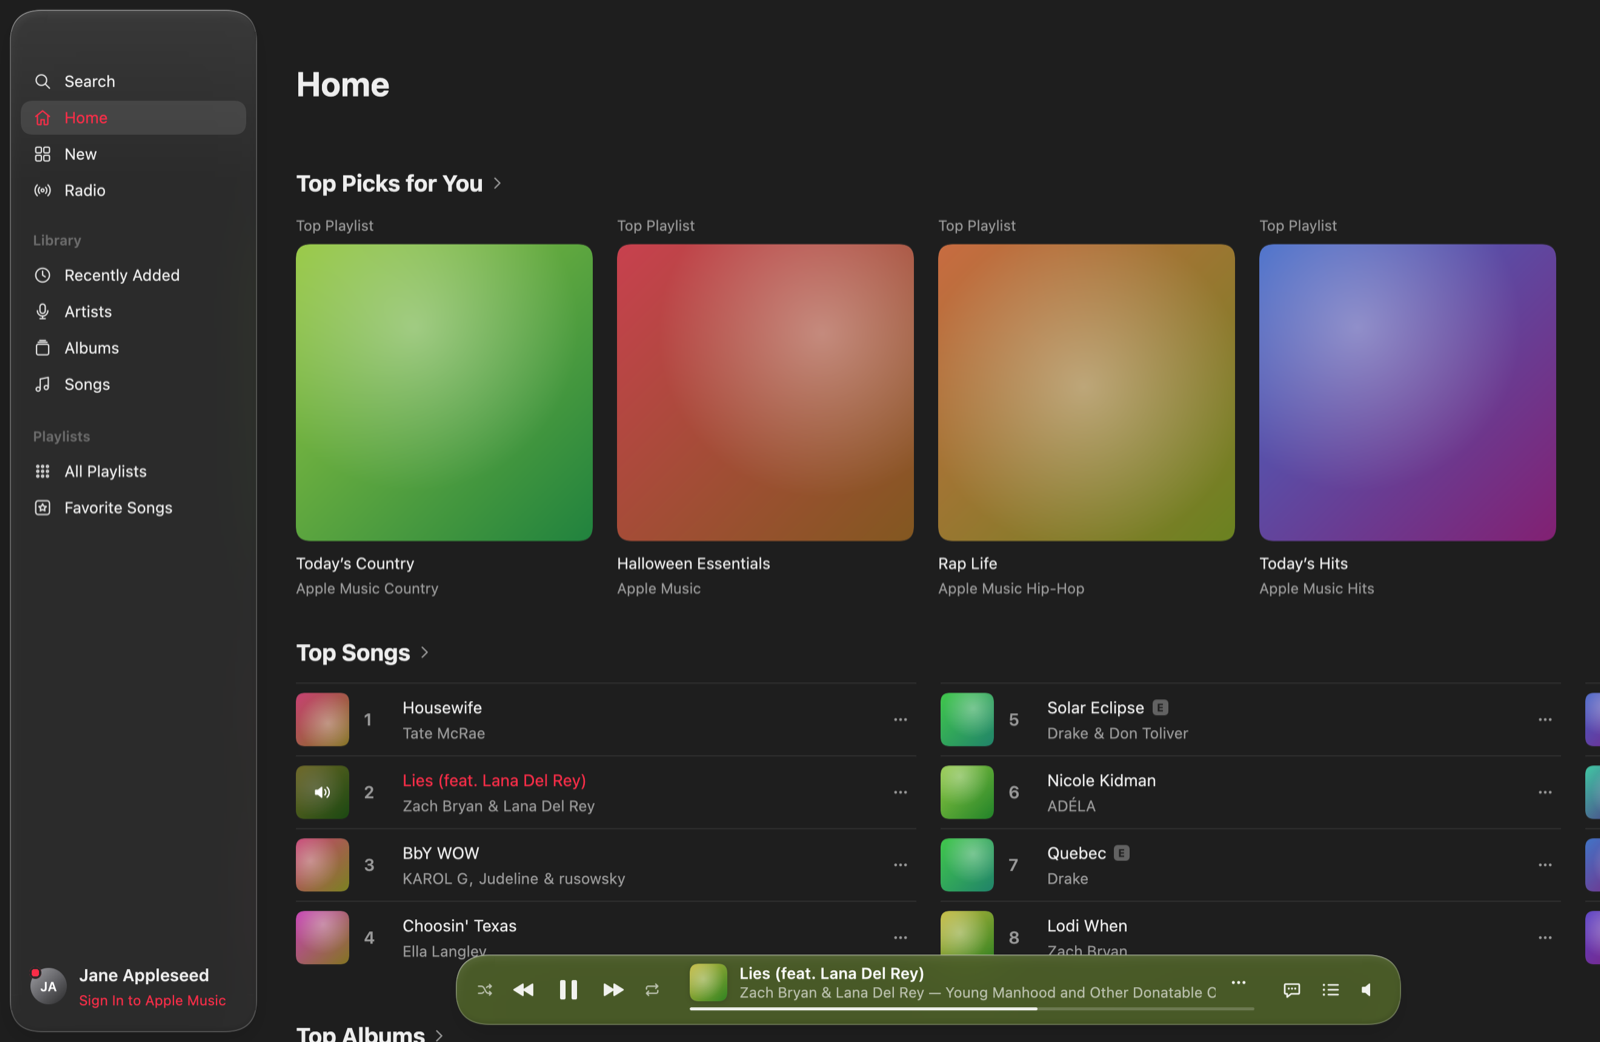
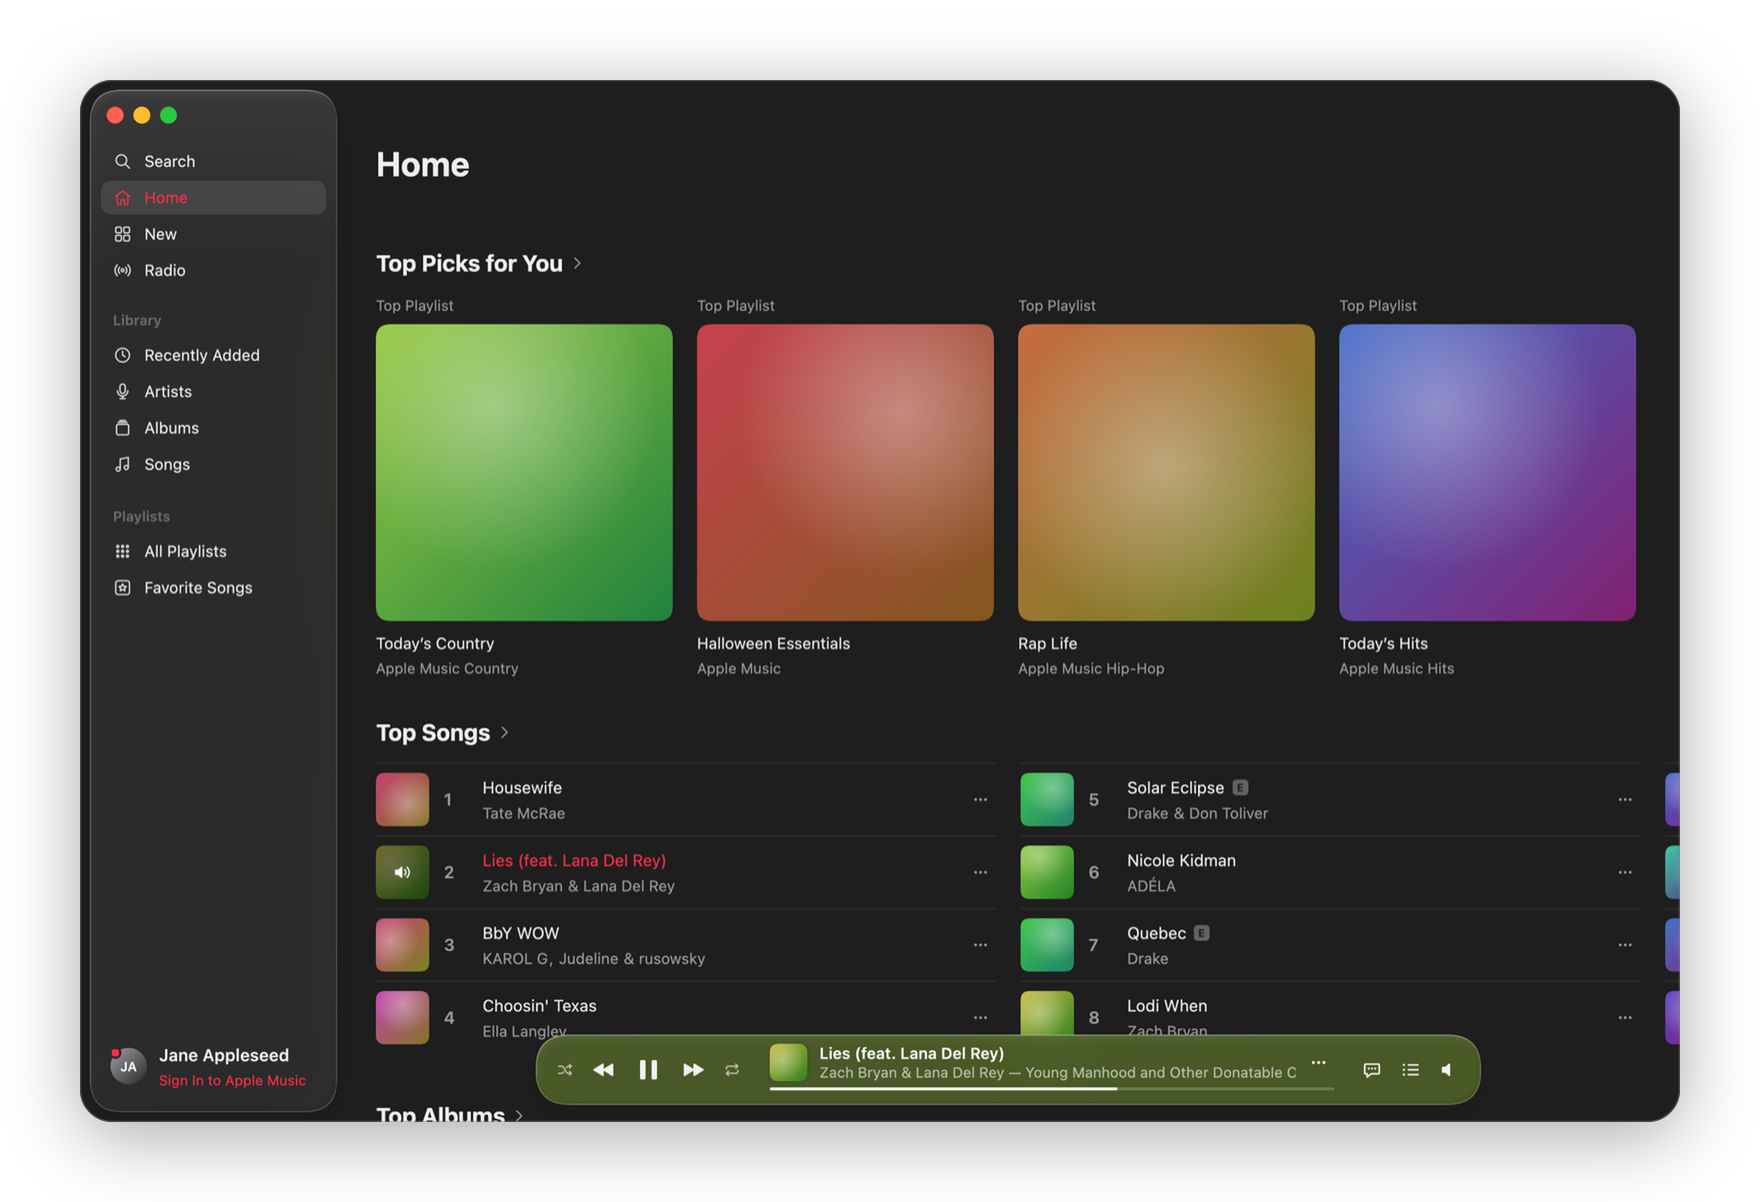
Frame the README's screenshots as Mac windows
Each screenshot now has the window's rounded corners, a hairline edge, its window
buttons and a soft shadow, on a transparent background that suits GitHub's light
and dark themes. The gallery is captioned pairs rather than a bordered table.
scripts/frame_screenshot.py does the framing, so new screenshots match.

diff --git a/scripts/frame_screenshot.py b/scripts/frame_screenshot.py
@@ -1,0 +1,94 @@
+#!/usr/bin/env python3
+"""Frames a tour snapshot as a Mac window for the README: rounded corners, a hairline edge,
+the window buttons, and a soft shadow, on a transparent background that suits GitHub's
+light and dark themes alike. Needs Pillow.
+
+  scripts/frame_screenshot.py docs/screenshots/home.png
+  scripts/frame_screenshot.py --points 300 --lights 10,10 docs/screenshots/mini-player.png
+
+Tour snapshots are rendered offscreen, so they have no window buttons or corners of their
+own; `--lights` is where the window puts its buttons, in points (TitlebarOptions'
+traffic_light_position), and `--points` is the window's width in points.
+"""
+
+import argparse
+
+from PIL import Image, ImageDraw, ImageFilter
+
+SUPERSAMPLE = 4
+# Tahoe's window corner radius, and its window buttons' size and spacing, in points.
+CORNER = 26
+BUTTON = 14
+BUTTON_STEP = 22
+BUTTONS = [((255, 95, 87), (224, 68, 62)), ((254, 188, 46), (222, 161, 35)), ((40, 200, 64), (29, 173, 43))]
+
+
+def rounded_mask(size, radius):
+    w, h = size
+    big = Image.new("L", (w * SUPERSAMPLE, h * SUPERSAMPLE), 0)
+    ImageDraw.Draw(big).rounded_rectangle(
+        (0, 0, w * SUPERSAMPLE - 1, h * SUPERSAMPLE - 1), radius * SUPERSAMPLE, fill=255
+    )
+    return big.resize(size, Image.LANCZOS)
+
+
+def frame(path, points, lights):
+    shot = Image.open(path).convert("RGBA")
+    w, h = shot.size
+    scale = w / points
+    radius = round(CORNER * scale)
+
+    if lights:
+        big = shot.resize((w * SUPERSAMPLE, h * SUPERSAMPLE), Image.LANCZOS)
+        draw = ImageDraw.Draw(big)
+        s = scale * SUPERSAMPLE
+        for i, (fill, edge) in enumerate(BUTTONS):
+            cx = (lights[0] + BUTTON / 2 + i * BUTTON_STEP) * s
+            cy = (lights[1] + BUTTON / 2) * s
+            r = BUTTON / 2 * s
+            draw.ellipse((cx - r, cy - r, cx + r, cy + r), fill=edge)
+            inset = 0.5 * s
+            draw.ellipse((cx - r + inset, cy - r + inset, cx + r - inset, cy + r - inset), fill=fill)
+        shot = big.resize((w, h), Image.LANCZOS)
+
+    mask = rounded_mask((w, h), radius)
+    window = Image.new("RGBA", (w, h), (0, 0, 0, 0))
+    window.paste(shot, (0, 0), mask)
+
+    # A hairline just inside the edge, which reads on light and dark pages.
+    edge = Image.new("RGBA", (w * SUPERSAMPLE, h * SUPERSAMPLE), (0, 0, 0, 0))
+    ImageDraw.Draw(edge).rounded_rectangle(
+        (0, 0, w * SUPERSAMPLE - 1, h * SUPERSAMPLE - 1),
+        radius * SUPERSAMPLE,
+        outline=(128, 128, 128, 110),
+        width=max(1, round(scale * SUPERSAMPLE)),
+    )
+    window = Image.alpha_composite(window, edge.resize((w, h), Image.LANCZOS))
+
+    pad = round(w * 0.05)
+    blur = round(w * 0.022)
+    drop = round(w * 0.009)
+    canvas = Image.new("RGBA", (w + pad * 2, h + pad * 2), (0, 0, 0, 0))
+    shadow_alpha = Image.new("L", canvas.size, 0)
+    shadow_alpha.paste(mask.point(lambda a: a * 0.34), (pad, pad + drop))
+    shadow = Image.new("RGBA", canvas.size, (0, 0, 0, 255))
+    shadow.putalpha(shadow_alpha.filter(ImageFilter.GaussianBlur(blur)))
+    canvas = Image.alpha_composite(canvas, shadow)
+    canvas.alpha_composite(window, (pad, pad))
+    canvas.save(path, optimize=True)
+
+
+def main():
+    parser = argparse.ArgumentParser(description=__doc__, formatter_class=argparse.RawDescriptionHelpFormatter)
+    parser.add_argument("paths", nargs="+")
+    parser.add_argument("--points", type=float, default=1320, help="window width in points (default 1320)")
+    parser.add_argument("--lights", default="22,22", help="window buttons' position in points, or 'none'")
+    args = parser.parse_args()
+    lights = None if args.lights == "none" else tuple(float(v) for v in args.lights.split(","))
+    for path in args.paths:
+        frame(path, args.points, lights)
+        print(f"framed {path}")
+
+
+if __name__ == "__main__":
+    main()

diff --git a/README.md b/README.md
@@ -8,11 +8,13 @@
 
 Styled after the macOS Tahoe Music app, with iOS-style detail pages and full-length playback for subscribers.
 
-[Features](#features) · [Benchmarks](#benchmarks) · [Getting started](#getting-started) · [Apple Music setup](docs/musickit.md) · [Architecture](docs/architecture.md) · [Contributing](CONTRIBUTING.md)
+[Features](#features) · [Screenshots](#screenshots) · [Benchmarks](#benchmarks) · [Getting started](#getting-started) · [Apple Music setup](docs/musickit.md) · [Architecture](docs/architecture.md) · [Contributing](CONTRIBUTING.md)
 
 </div>
 
-![Now Playing with synced lyrics](docs/screenshots/now-playing.png)
+<p align="center">
+  <img src="docs/screenshots/now-playing.png" alt="Now Playing with synced lyrics">
+</p>
 
 ## Features
 
@@ -27,26 +29,32 @@ Styled after the macOS Tahoe Music app, with iOS-style detail pages and full-len
 
 [All features →](docs/features.md)
 
-<table>
-  <tr>
-    <td width="50%"><img src="docs/screenshots/home.png" alt="Home, with the floating player bar"></td>
-    <td width="50%"><img src="docs/screenshots/new.png" alt="New, with the week's albums and songs"></td>
-  </tr>
-  <tr>
-    <td><img src="docs/screenshots/album.png" alt="Album page tinted from its artwork"></td>
-    <td><img src="docs/screenshots/quick-search.png" alt="Quick search"></td>
-  </tr>
-  <tr>
-    <td><img src="docs/screenshots/welcome.png" alt="Welcome screen on a new install"></td>
-    <td><img src="docs/screenshots/setup.png" alt="Connecting a MusicKit key"></td>
-  </tr>
-</table>
+## Screenshots
 
 <p align="center">
-  <img src="docs/screenshots/mini-player.png" width="300" alt="Mini Player with its controls showing">
+  <img src="docs/screenshots/home.png" width="48%" alt="Home, with the floating player bar">
+  <img src="docs/screenshots/new.png" width="48%" alt="New, with the week's albums and songs">
 </p>
+<p align="center"><sub><b>Home</b> with the floating player bar &nbsp;·&nbsp; <b>New</b> this week</sub></p>
 
-The screenshots use stand-in gradients in place of album artwork (`ENCORE_TOUR_PLACEHOLDER_ART`); [CONTRIBUTING.md](CONTRIBUTING.md) explains how to take them.
+<p align="center">
+  <img src="docs/screenshots/album.png" width="48%" alt="Album page tinted from its artwork">
+  <img src="docs/screenshots/quick-search.png" width="48%" alt="Quick search">
+</p>
+<p align="center"><sub><b>Album pages</b> tinted from the artwork &nbsp;·&nbsp; <b>Quick search</b> with ⌘K</sub></p>
+
+<p align="center">
+  <img src="docs/screenshots/welcome.png" width="48%" alt="Welcome screen on a new install">
+  <img src="docs/screenshots/setup.png" width="48%" alt="Connecting a MusicKit key">
+</p>
+<p align="center"><sub><b>Welcome</b> on a new install &nbsp;·&nbsp; <b>Guided setup</b> for your own MusicKit key</sub></p>
+
+<p align="center">
+  <img src="docs/screenshots/mini-player.png" width="260" alt="Mini Player with its controls showing">
+</p>
+<p align="center"><sub><b>Mini Player</b> with ⇧⌘M</sub></p>
+
+<sub>Album artwork is replaced with stand-in gradients. [CONTRIBUTING.md](CONTRIBUTING.md) explains how to take and frame these.</sub>
 
 ## Benchmarks
 

diff --git a/CONTRIBUTING.md b/CONTRIBUTING.md
@@ -60,6 +60,13 @@ HOME=/tmp/shots/home ENCORE_TOUR=1 ENCORE_TOUR_SIGNED_OUT=1 ENCORE_TOUR_NAME="Ja
   ENCORE_SNAPSHOT_SCALE=2 ENCORE_SNAPSHOT_DIR=/tmp/shots cargo run --features tour
 ```
 
+Then frame them as Mac windows, with corners, window buttons and a shadow, with `scripts/frame_screenshot.py` (it needs Pillow). The Mini Player's window is 300 points wide with its buttons at 10, 10:
+
+```sh
+scripts/frame_screenshot.py docs/screenshots/home.png
+scripts/frame_screenshot.py --points 300 --lights 10,10 docs/screenshots/mini-player.png
+```
+
 To profile an optimized build (release builds are stripped, so turn that off for `sample` or Instruments to show function names):
 
 ```sh
